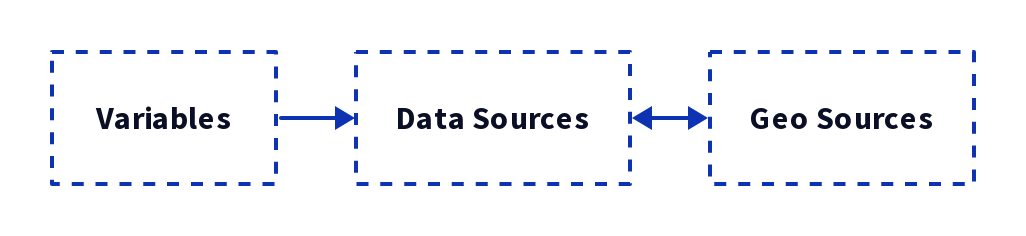
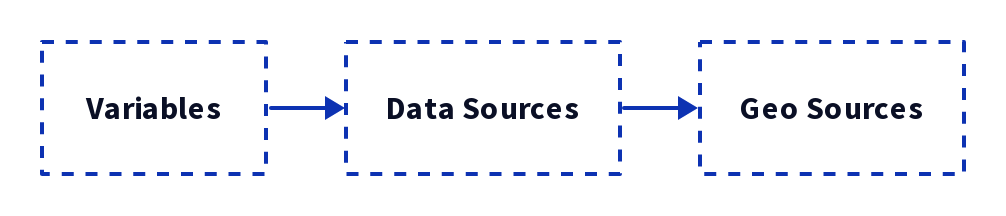
WIP updates to new registry docs

diff --git a/docs/registry.md b/docs/registry.md
@@ -13,8 +13,8 @@ The composition of the registry is largely inspired by [Frictionless](https://fr
 
 The registry is broken into three parts:
 
-- [variables.json](#variablesjson)
-- [variable_sources](#variable-sources)
+- [variables](#variables)
+- [table_sources](#table-sources)
 - [geodata_sources](#geodata-sources)
 
 ![basic registry diagram](./img/registry-simple.png)
@@ -25,11 +25,9 @@ The core rationale for this setup is to treat individual variables as the lowest
 
 ## Structure
 
-The `variables.json` file holds a comprehensive lookup of *all* individual variables that are present in any source file, each defined by a suite of metadata properties that describe. One of these properties, `data_sources` is a list of ids for all data sources in which a value for this variable can be found.
+The `variables.json` file holds a comprehensive lookup of *all* individual variables that are present in any source file, each defined by a suite of metadata properties that describe. One of these properties, `table_sources` is a list of ids for all table sources in which a value for this variable can be found.
 
-Each source table (CSV) that holds data is described by its own JSON file in the `variables_sources` directory. These JSON definitions follow the [Data Resource spec](https://specs.frictionlessdata.io/data-resource/), with one important difference: All `fields` lists are empty. Where traditionally the `fields` list would have a definition of each field, "fields" are what we are calling "variables", so this list is populated at "run-time" (by whatever operation is interrogating the files) based on the `data_sources` property of each variable.
-
-Spatial data to which each data source must be joined is defined in the `geodata_sources` directory. *All joins must be performed on the HEROP_ID field.*
+Each table source (CSV) is in turn described by a JSON file in the `table_sources` directory, and linked via a `geodata_source` property to a similar entry in the `geodata_sources` directory. *All joins must be performed on the HEROP_ID field.*
 
 ![illustration of connections between registry content](./img/registry-complex.png)
 
@@ -38,23 +36,23 @@ The diagram above illustrates how three different example variables would be def
 To explain the example:
 
 - **`ParkArea`** is a state level calculation (area of parks within a state) and it has only been calculated for 2010, so it is only stored in one table, called `s-2010` here.
-- **`TotPop`** (total population) has a value in many different tables: at the state, county, and tract level in 2010 (`s-2010`, `c-2010`, and `t-2010`, respectively), as well as at the state level in 2000 (`s-2000`). As you can see, the `data_sources` field in `TotPop` lists all of these table ids.
+- **`TotPop`** (total population) has a value in many different tables: at the state, county, and tract level in 2010 (`s-2010`, `c-2010`, and `t-2010`, respectively), as well as at the state level in 2000 (`s-2000`). As you can see, the `table_sources` field in `TotPop` lists all of these table ids.
 - **`MetTmDr`** is the average drive time (in minutes) for how long it takes to access a methadone provider. This variable has only been calculated at the tract level, using 2010 data.
 
 Though these three variables are present in four different data source tables, you will notice that these tables only link to three different geodata sources. This is because both of the state-level data sources, 2010 and 2000, can be joined to the same single `states` geodata source.
 
 While this is a very small example (currently we have well over 350 variables), it should be enough to show the flexibility of the system.
 
-### `variables.json`
+### `variables`
 
-This file is a lookup for all variables, each one being defined as a Frictionless [Field Descriptor](https://specs.frictionlessdata.io/table-schema/#field-descriptors), with some extra properties that we have added for our own needs. The key for each field in the lookup must be the same as its `name` property, which must be CamelCase and &lt;= 10 characters long.
+A single file, `variable.json`, serves as a central lookup for all variables, each one being defined as a Frictionless [Field Descriptor](https://specs.frictionlessdata.io/table-schema/#field-descriptors), with some extra properties that we have added for our own needs. The key for each item in the lookup must be the same as its `name` property.
 
-- `name` - Canonical name of the variable. Same as identifier above.
-- `title` * - Human-readable title.
-- `type` * - The type of data in this column, must be one of Frictionless [field types](https://specs.frictionlessdata.io/table-schema/#types-and-formats).
-- `example` * - An example value in this field.
-- `description` * - A one or two sentence description.
-- `constraints` * - Any data usage constraints that are relevant for this variable.
+- `name` - Canonical name of the variable, same as key for this item, must be CamelCase and &lt;= 10 characters long.
+- `title` - Human-readable title.
+- `type` - The type of data in this column, must be one of Frictionless [field types](https://specs.frictionlessdata.io/table-schema/#types-and-formats).
+- `example` - An example value in this field.
+- `description` - A one or two sentence description.
+- `constraints` - Any data usage constraints that are relevant for this variable.
 - `comments` - Any extra comments about this variable's creation that don't fit into other properties.
 - `src_name` - The name of this column in its data sources (this _should_ be the same as name above anyway).
 - `bq_data_type` - The type of column that this variable will be placed into in BigQuery, must be one of [these types](https://cloud.google.com/bigquery/docs/reference/standard-sql/data-types).
@@ -65,7 +63,7 @@ This file is a lookup for all variables, each one being defined as a Frictionles
 - `metadata_doc_url` - URL to raw content for a Markdown-formatted metadata document (this content is read and loaded directly into the explorer webpages).
 - `longitudinal` - `true`/`false`, appropriate for longitudinal comparison.
 - `analysis` - `true`/`false`
-- `data_sources` - A list of data_source identifiers, must match identiers in the `sources.json` file.
+- `table_sources` - A list of data_source identifiers, must match identiers in the `sources.json` file.
 
 <summary>
   See full example, <code>TotPop</code>
@@ -88,7 +86,7 @@ This file is a lookup for all variables, each one being defined as a Frictionles
       "metadata_doc_url": "https://github.com/GeoDaCenter/opioid-policy-scan/blob/main/data_final/metadata/Age_2018.md",
       "longitudinal": true,
       "analysis": false,
-      "data_sources": [
+      "table_sources": [
         "c-1980",
         "s-latest",
         "t-2010",
@@ -110,44 +108,37 @@ This file is a lookup for all variables, each one being defined as a Frictionles
   </pre>
 </details></summary>
 
-### `data_sources`
+### `table_sources`
 
-Each variable source file is a [Tabular Data Resource](https://specs.frictionlessdata.io/tabular-data-resource/) that links to a single data table (CSV). However, while a typical data resource would have a list of `fields` that reflect the columns in the CSV, that field should always be empty because a variable's presence in a CSV will be indicated by adding the source's `name` to the variable's entry in the single `variables.json` registry.
+Each table source file is essentially a [Tabular Data Resource](https://specs.frictionlessdata.io/tabular-data-resource/) that links to a single data table (CSV), but without a `schema` property. Where the `schema` typically defines a primary key, foreign key (for joins), and a list of all fields, all of this information is inferred or standardized elsewhere and need not be stored in these files.
 
 There are a few rules for how a CSV can be constructed:
 
 1. It must have a `HEROP_ID` column that joins each row to a geography unit.
 2. It must only have data for a single geography category within it.
-3. It must only have variables in it that correspond to a single publication year.
-
-Incoming CSVs that hold a variable's value across multiple years must be split into separate files, each will be defined separately as a data source.
+3. *Ideally* it will only have values for a single publication year.
 
 #### Example
 
 ```json
-"c-1980": {
+{
     "name": "c-1980",
     "path": "https://raw.githubusercontent.com/GeoDaCenter/opioid-policy-scan/main/data_final/full_tables/C_1980.csv",
     "title": "OEPS Data Aggregated by Census Tract (1980)",
     "description": "This CSV aggregates all 1980 data variables from the OEPS v2 release at the Census Tract level.",
-    "year": "1980",
-    "geography": "county",
     "bq_dataset_name": "tabular",
     "bq_table_name": "C_1980",
 }
 ```
 
-- `c-1980` - This is the identifier for the source, and is referenced in the variables file below. It can be any string value (no spaces though!)
-- `name` - Name of the source. Same as identifier above.
+- `name` - Identifier for this table source. This ID is referenced by entries in the variables file.
 - `path` - URL to publicly hosted CSV file.
 - `title` - Human reaadable title of this source.
 - `description` - A short, informative description of the data source.
-- `year`- The year of the data variables in this source (ideally they are all the same year).
-- `geography` - The geography that these variable values correspond to.
 - `bq_dataset_name` - The "dataset" (i.e. database) name in BigQuery that this source will be loaded into.
 - `bq_table_name` - The table name that this dataset will be loaded into.
 
-### `geo_sources`
+### `geodata_sources`
 
 This directory holds Frictionless [Data Resource](https://specs.frictionlessdata.io/data-resource/) definitions of shapefiles, that are used as base data for all joins. There are 4 different geographies--States, Counties, Tracts, and Zip Code Tabulation Areas (ZCTAs)--and (currently) all but the ZCTAs have data for both 2010 and 2018.
 
